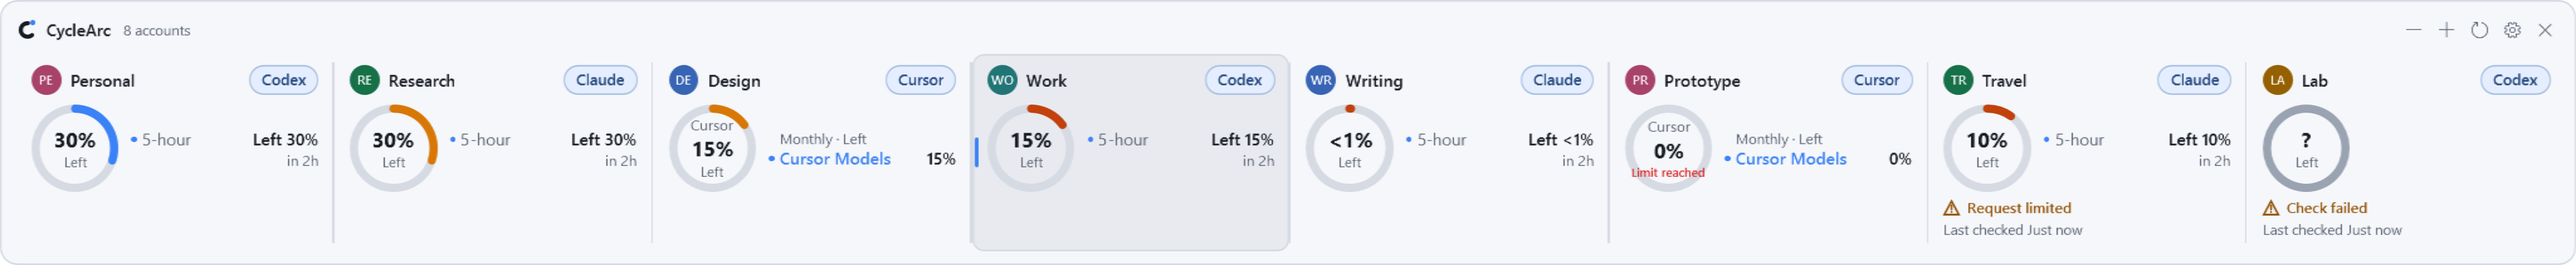
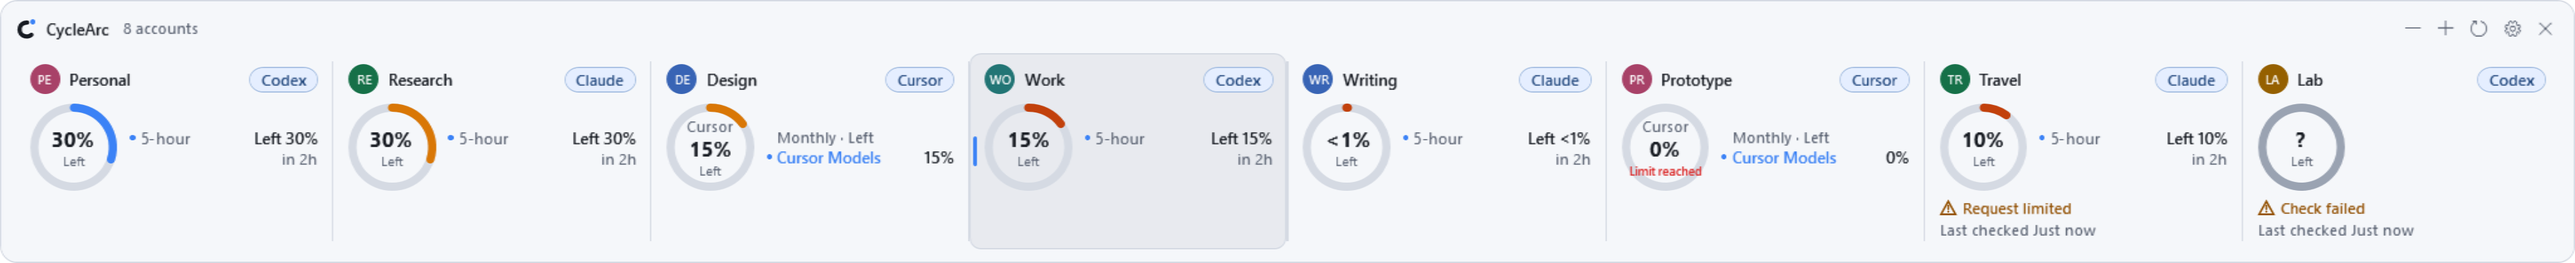
Keep widget height stable across status updates

diff --git a/tests/CycleArc.UiSmoke/WidgetStatusRowChecks.cs b/tests/CycleArc.UiSmoke/WidgetStatusRowChecks.cs
@@ -52,7 +52,7 @@ internal static class WidgetStatusRowChecks
         UiText.SetLanguage(UiLanguage.English);
         applyTheme.Invoke(null, [AppTheme.Dark]);
         Console.WriteLine(expectHealthyCollapsed
-            ? "PASS: widget healthy status collapse, failure recovery, Claude source preservation and EN/KO Dark/Light 80/100/150 layouts."
+            ? "PASS: widget reserved status space, stable refresh/failure recovery, Claude source preservation and EN/KO Dark/Light 80/100/150 layouts."
             : "PASS: 36 original production WPF status-row baseline captures in EN/KO Dark/Light 80/100/150.");
     }
 
@@ -124,13 +124,13 @@ internal static class WidgetStatusRowChecks
 
     private static void CheckTransitions(UiLanguage language, AppTheme theme, bool expectHealthyCollapsed, string? directory)
     {
-        CheckProviderTransitions(UsageProviderId.Codex, language, theme, expectHealthyCollapsed, directory);
-        CheckProviderTransitions(UsageProviderId.Cursor, language, theme, expectHealthyCollapsed, directory);
-        CheckProviderTransitions(UsageProviderId.Claude, language, theme, expectHealthyCollapsed, directory);
+        foreach (var zoom in new[] { 80, 100, 150 })
+        foreach (var provider in new[] { UsageProviderId.Codex, UsageProviderId.Cursor, UsageProviderId.Claude })
+            CheckProviderTransitions(provider, language, theme, zoom, expectHealthyCollapsed, directory);
     }
 
     private static void CheckProviderTransitions(UsageProviderId provider,
-        UiLanguage language, AppTheme theme, bool expectHealthyCollapsed, string? directory)
+        UiLanguage language, AppTheme theme, int zoom, bool expectHealthyCollapsed, string? directory)
     {
         var healthy = provider == UsageProviderId.Cursor
             ? CursorAccount(CursorSnapshot())
@@ -139,16 +139,18 @@ internal static class WidgetStatusRowChecks
         var widget = CreateWidget();
         try
         {
+            widget.SetZoom(zoom, notify: false);
             widget.BindAccounts([healthy], healthy.Profile.Id, UsagePeriodPreference.Auto,
                 WidgetFixture.Desktop, Now);
             var healthyModule = WidgetFixture.Module(widget);
             var healthyHeight = LayoutHeight(widget, healthyModule);
+            var healthyPeriodCount = healthyModule.Periods.Count;
             CheckHealthyModule(healthyModule, healthy.Snapshot, expectHealthyCollapsed,
                 provider + " transition healthy");
 
             var visibleHeight = MeasureWithStatusVisible(widget, healthyModule);
-            Check(visibleHeight - healthyHeight >= 5 - 0.01,
-                provider + " healthy footer did not remove its 5 DIP top margin from layout.");
+            Check(Math.Abs(visibleHeight - healthyHeight) < 0.01,
+                provider + " healthy footer did not reserve status space.");
 
             foreach (var (label, account) in FailureStates(provider))
             {
@@ -159,14 +161,17 @@ internal static class WidgetStatusRowChecks
                     && !string.IsNullOrWhiteSpace(module.StatusText.Text),
                     provider + " " + label + " hid its recovery/status footer.");
                 var withFooter = LayoutHeight(widget, module);
-                module.StatusArea.Visibility = Visibility.Collapsed;
+                module.StatusArea.Visibility = Visibility.Hidden;
                 var withoutFooter = LayoutHeight(widget, module);
                 module.StatusArea.Visibility = Visibility.Visible;
-                Check(withFooter - withoutFooter >= 5 - 0.01,
-                    provider + " " + label + " did not restore footer layout height.");
+                Check(Math.Abs(withFooter - withoutFooter) < 0.01,
+                    provider + " " + label + " changed height when hiding status content.");
+                if (module.Periods.Count == healthyPeriodCount)
+                    Check(Math.Abs(withFooter - healthyHeight) < 0.01,
+                        provider + " " + label + " changed height without changing quota rows.");
                 LayoutHeight(widget, module);
                 WidgetFixture.RenderWidget(widget, directory is null ? null : Path.Combine(directory,
-                    $"widget-status-{provider.ToString().ToLowerInvariant()}-{label}-{LanguageSuffix(language)}-{ThemeSuffix(theme)}.png"));
+                    $"widget-status-{provider.ToString().ToLowerInvariant()}-{label}-{LanguageSuffix(language)}-{ThemeSuffix(theme)}-{zoom}.png"));
                 CheckModuleShape(widget, module, account.Snapshot, provider + " " + label);
 
                 widget.BindAccounts([healthy], healthy.Profile.Id, UsagePeriodPreference.Auto,
@@ -174,10 +179,10 @@ internal static class WidgetStatusRowChecks
                 CheckHealthyModule(WidgetFixture.Module(widget), healthy.Snapshot, expectHealthyCollapsed,
                     provider + " recovered from " + label);
                 Check(Math.Abs(LayoutHeight(widget, WidgetFixture.Module(widget)) - healthyHeight) < 0.01,
-                    provider + " recovery did not return to the compact healthy height.");
+                    provider + " recovery changed the reserved healthy height.");
             }
 
-            // Rebinding the latest server result must collapse the row again, after every
+            // Rebinding the latest server result must hide the content again, after every
             // failure state, without losing the exact tooltip/detail metadata.
             widget.BindAccounts([healthy], healthy.Profile.Id, UsagePeriodPreference.Auto,
                 WidgetFixture.Desktop, Now);
@@ -185,7 +190,7 @@ internal static class WidgetStatusRowChecks
             CheckHealthyModule(recovered, healthy.Snapshot, expectHealthyCollapsed,
                 provider + " transition recovered");
             Check(LayoutHeight(widget, recovered) == healthyHeight,
-                provider + " recovery did not return to the compact healthy height.");
+                provider + " recovery changed the reserved healthy height.");
         }
         finally { widget.CloseWithoutActivation(); }
     }
@@ -194,6 +199,7 @@ internal static class WidgetStatusRowChecks
     {
         if (provider == UsageProviderId.Codex)
         {
+            yield return ("refreshing", CodexAccount("codex-status", "Codex account", CodexSnapshot().AsRefreshing()));
             var stale = CodexSnapshot() with { Status = CodexQuotaStatus.Stale,
                 LastSuccessfulRefresh = Now.AddMinutes(-12), TechnicalDetail = null };
             yield return ("stale", CodexAccount("codex-status", "Codex account", stale));
@@ -204,6 +210,7 @@ internal static class WidgetStatusRowChecks
         }
         if (provider == UsageProviderId.Cursor)
         {
+            yield return ("refreshing", CursorAccount(CursorSnapshot().AsRefreshing()));
             yield return ("stale", CursorAccount(CursorSnapshot(CodexQuotaStatus.Stale, "cursor-live-request-failed",
                 Now.AddHours(-3))));
             yield return ("request-failed", CursorAccount(CursorSnapshot(CodexQuotaStatus.Available,
@@ -215,6 +222,7 @@ internal static class WidgetStatusRowChecks
             yield break;
         }
 
+        yield return ("refreshing", ClaudeAccount(ClaudeSnapshot(ClaudeUsagePresentation.LiveDetail).AsRefreshing()));
         yield return ("stale", ClaudeAccount(ClaudeSnapshot("claude-live-request-failed",
             CodexQuotaStatus.Stale, Now.AddHours(-3))));
         yield return ("request-failed", ClaudeAccount(ClaudeSnapshot("claude-live-request-failed",
@@ -354,6 +362,9 @@ internal static class WidgetStatusRowChecks
         var expected = expectHealthyCollapsed ? Visibility.Collapsed : Visibility.Visible;
         Check(module.StatusText.Visibility == expected,
             label + " did not use the expected healthy server status-row visibility.");
+        if (expectHealthyCollapsed)
+            Check(module.StatusArea.Visibility == Visibility.Hidden,
+                label + " removed reserved status space.");
         Check(module.StatusText.Text.Contains(UiText.T("Updated", "업데이트됨"), StringComparison.Ordinal)
             || module.StatusText.Text.Contains(UiText.T("Updated from", "Claude 서버에서"), StringComparison.Ordinal),
             label + " lost the normal updated status text in its retained model/view.");
@@ -401,7 +412,7 @@ internal static class WidgetStatusRowChecks
         module.StatusArea.Visibility = Visibility.Visible;
         module.StatusText.Visibility = Visibility.Visible;
         var height = LayoutHeight(widget, module);
-        module.StatusArea.Visibility = Visibility.Collapsed;
+        module.StatusArea.Visibility = Visibility.Hidden;
         module.StatusText.Visibility = Visibility.Collapsed;
         LayoutHeight(widget, module);
         return height;

diff --git a/tests/CycleArc.UiSmoke/WidgetLayoutChecks.cs b/tests/CycleArc.UiSmoke/WidgetLayoutChecks.cs
@@ -599,6 +599,18 @@ internal static class WidgetLayoutChecks
             Check(Math.Abs(bothNative.Height - bothLayout) <= 4,
                 $"Two-period HWND {bothNative.Height} does not match layout {bothLayout}.");
 
+            var beforeStatus = (window.Left, window.Top, Moved: moved.Count);
+            var refreshing = both with { Snapshot = both.Snapshot.AsRefreshing() };
+            controller.Update(settings, UsageAccountOverview.Create([refreshing], refreshing.Profile.Id));
+            Pump();
+            Check(window.Modules[0].StatusText.Visibility == Visibility.Visible,
+                "Refresh status did not appear after Update().");
+            CheckWindowMatchesLayout(window, "bind-refreshing");
+            CheckAccountsFullyVisible(window, "bind-refreshing");
+            Check(Math.Abs(window.LastLayout!.Height - bothLayout) < 0.01
+                && Math.Abs(NativeDipSize(window).Height - bothNative.Height) < 0.01,
+                "Refresh status changed the arranged or HWND height.");
+
             var stale = both with { Snapshot = both.Snapshot with { Status = CodexQuotaStatus.Stale } };
             controller.Update(settings, UsageAccountOverview.Create([stale], stale.Profile.Id));
             Pump();
@@ -608,19 +620,21 @@ internal static class WidgetLayoutChecks
             CheckAccountsFullyVisible(window, "bind-status");
             var staleLayout = window.LastLayout!.Height;
             var staleNative = NativeDipSize(window);
-            Check(staleLayout > bothLayout + 4,
-                $"Status text did not grow the arranged layout ({bothLayout} → {staleLayout}).");
-            Check(staleNative.Height > bothNative.Height + 4
-                && staleNative.Height > weeklyNative.Height + 4,
-                $"Status text did not grow the HWND ({weeklyNative.Height}/{bothNative.Height} → {staleNative.Height}).");
+            Check(Math.Abs(staleLayout - bothLayout) < 0.01,
+                $"Status text changed the arranged height ({bothLayout} → {staleLayout}).");
+            Check(Math.Abs(staleNative.Height - bothNative.Height) < 0.01,
+                $"Status text changed the HWND height ({bothNative.Height} → {staleNative.Height}).");
             controller.Update(settings, UsageAccountOverview.Create([both], both.Profile.Id));
             Pump();
             Check(window.Modules[0].StatusText.Visibility != Visibility.Visible,
                 "Status text stayed after it was cleared.");
             CheckWindowMatchesLayout(window, "bind-status-cleared");
             var clearedNative = NativeDipSize(window);
-            Check(clearedNative.Height + 4 < staleNative.Height,
-                $"Clearing status text left the previous HWND height {staleNative.Height} → {clearedNative.Height}.");
+            Check(Math.Abs(clearedNative.Height - staleNative.Height) < 0.01,
+                $"Clearing status text changed HWND height {staleNative.Height} → {clearedNative.Height}.");
+            Check((window.Left, window.Top) == (beforeStatus.Left, beforeStatus.Top)
+                && moved.Count == beforeStatus.Moved && new WindowInteropHelper(window).Handle == hwnd,
+                "Status transitions moved, persisted position or recreated the widget.");
 
             controller.Update(settings, ThreeOverview());
             Pump();
@@ -1104,10 +1118,25 @@ internal static class WidgetLayoutChecks
             snapshot with { Provider = UsageProviderId.Claude, TechnicalDetail = ClaudeUsagePresentation.LiveDetail })
         { IsConnected = true };
 
+    private static CodexAccountView Cursor(string id, string label) =>
+        new(new CodexAccountProfile(id, "", label) { Provider = UsageProviderId.Cursor },
+            Both(0, 0) with
+            {
+                Provider = UsageProviderId.Cursor,
+                Windows =
+                [
+                    new("cursor-auto", 76.9, null, Now.AddDays(18), CodexWindowKind.Other),
+                    new("cursor-api", 2.9, null, Now.AddDays(18), CodexWindowKind.Other),
+                    new("cursor-sand", 12.5, null, Now.AddDays(4), CodexWindowKind.Other)
+                ]
+            }) { IsConnected = true };
+
     private static CodexAccountView[] MixedHeights() =>
     [
         Codex("mix-a", UiText.T("Main", "메인"), WeeklyOnly(41)),
-        Claude("mix-b", UiText.T("Work", "작업용"), Both(62, 18) with { Status = CodexQuotaStatus.Stale }),
+        // Cursor's three allowance rows produce a taller body. Status text now reserves
+        // the same space in every state, so warnings no longer create mixed heights.
+        Cursor("mix-b", UiText.T("Work Cursor", "작업용 Cursor")),
         Claude("mix-c", UiText.T("Personal Claude", "개인 Claude"), Both(85, 23)),
         Codex("mix-d", UiText.T("Kakao", "카카오"), Both(97, 44) with { Status = CodexQuotaStatus.Stale }),
         Claude("mix-e", UiText.T("Lab", "실험용"), Both(55, 30) with { TechnicalDetail = "claude-live-auth-required" })

diff --git a/src/CycleArc/UI/WidgetAccountModuleView.cs b/src/CycleArc/UI/WidgetAccountModuleView.cs
@@ -71,15 +71,22 @@ public sealed class WidgetAccountModuleView : Border
     public TextBlock StatusText { get; } = new()
     {
         FontSize = 10.5, TextTrimming = TextTrimming.CharacterEllipsis, TextWrapping = TextWrapping.NoWrap,
+        LineHeight = 14, LineStackingStrategy = LineStackingStrategy.BlockLineHeight,
         Visibility = Visibility.Collapsed
     };
 
     public TextBlock StatusAgeText { get; } = new()
     {
         FontSize = 10.5, TextTrimming = TextTrimming.CharacterEllipsis, TextWrapping = TextWrapping.NoWrap,
+        LineHeight = 14, LineStackingStrategy = LineStackingStrategy.BlockLineHeight,
         Margin = new Thickness(0, 2, 0, 0), Visibility = Visibility.Collapsed
     };
-    public StackPanel StatusArea { get; } = new() { Margin = new Thickness(0, 5, 0, 0), Visibility = Visibility.Collapsed };
+    // Reserve both status lines even when healthy or before the first receipt. Showing a
+    // check/retry notice must not resize the widget or move a bottom-anchored window.
+    public StackPanel StatusArea { get; } = new()
+    {
+        Height = 30, Margin = new Thickness(0, 5, 0, 0), Visibility = Visibility.Hidden
+    };
     public Path StatusWarningIcon { get; } = new()
     {
         Width = 12, Height = 12, Stretch = Stretch.Uniform, StrokeThickness = 1.35,
@@ -207,7 +214,7 @@ public sealed class WidgetAccountModuleView : Border
 
         StatusText.Text = model.StatusText;
         StatusText.Visibility = model.ShowStatusRow ? Visibility.Visible : Visibility.Collapsed;
-        StatusArea.Visibility = StatusText.Visibility;
+        StatusArea.Visibility = model.ShowStatusRow ? Visibility.Visible : Visibility.Hidden;
         var status = model.StatusPresentation;
         var warning = status?.IsWarning ?? model.IsStale;
         StatusAgeText.Text = status?.AgeText ?? "";
@@ -228,7 +235,7 @@ public sealed class WidgetAccountModuleView : Border
         System.Windows.Automation.AutomationProperties.SetName(this, AutomationText(model));
         System.Windows.Automation.AutomationProperties.SetHelpText(this, status?.DetailText ?? model.Tooltip);
 
-        // BindAccounts measures immediately, before WPF propagates a status-line size change.
+        // BindAccounts measures immediately, before WPF propagates quota-row changes.
         ((FrameworkElement)Child).InvalidateMeasure();
         InvalidateMeasure();
     }

diff --git a/tests/CycleArc.UiSmoke/CursorWidgetSummaryChecks.cs b/tests/CycleArc.UiSmoke/CursorWidgetSummaryChecks.cs
@@ -115,8 +115,10 @@ internal static class CursorWidgetSummaryChecks
             && accounts.All(account => account.Snapshot.Status is CodexQuotaStatus.Available or CodexQuotaStatus.Refreshing)
             && accounts.All(account => account.Snapshot.Windows.All(window => window.RemainingAmount is null));
         if (compactStandard)
-            Check(content.ActualHeight <= 192 + tolerance,
-                $"{name}: standard Cursor summary grew beyond 192 DIP ({content.ActualHeight:0.##}).");
+            // Keep the earlier 192-DIP summary budget plus the reserved 30-DIP status
+            // area and its 5-DIP margin, independently of status visibility.
+            Check(content.ActualHeight <= 192 + 35 + tolerance,
+                $"{name}: standard Cursor summary with reserved status grew beyond 227 DIP ({content.ActualHeight:0.##}).");
 
         for (var index = 0; index < widget.Modules.Count; index++)
         {
@@ -248,7 +250,8 @@ internal static class CursorWidgetSummaryChecks
                 $"{name}: unknown Cursor values were hidden or replaced with zero.");
         if (source.Status == CodexQuotaStatus.Available
             && source.Windows.All(window => window.RemainingAmount is null))
-            Check(module.ActualHeight <= 150, $"{name}: Cursor summary expanded beyond its compact module height.");
+            Check(module.ActualHeight <= 150 + 35,
+                $"{name}: Cursor summary expanded beyond its compact module plus reserved status height.");
         if (model.IsStale)
             Check(module.StatusText.Visibility == Visibility.Visible
                 && model.StatusPresentation is { IsWarning: true }

diff --git a/tests/CycleArc.UiSmoke/Program.cs b/tests/CycleArc.UiSmoke/Program.cs
@@ -297,11 +297,11 @@ internal static class Program
                         || (attention && string.IsNullOrEmpty(notice.Text)))
                         throw new InvalidOperationException($"Incorrect widget notice for {status}.");
                 }
-                WidgetFixture.BindSnapshot(widget, snapshot); // Recovery must remove the old failure text and its space.
+                WidgetFixture.BindSnapshot(widget, snapshot); // Recovery hides the failure text and retains its space.
                 var recoveredModule = WidgetFixture.Module(widget);
                 var recovered = recoveredModule.StatusText;
                 if (recovered.Visibility != Visibility.Collapsed
-                    || recoveredModule.StatusArea.Visibility != Visibility.Collapsed
+                    || recoveredModule.StatusArea.Visibility != Visibility.Hidden
                     || recoveredModule.Model!.StatusPresentation is not { ShowRow: false, IsWarning: false }
                     || recoveredModule.StatusArea.ToolTip is not string { Length: > 0 })
                     throw new InvalidOperationException("Widget notice remains after recovery.");

diff --git a/README.md b/README.md
@@ -15,8 +15,10 @@ and missing values stay distinct. No monetary rows are added to the account list
 Widget status uses the same warning color and vector icon for all providers. **Previous data**,
 a known failure or the needed account action appears above the original **Last checked** time;
 local Claude receipts use **Last received**. Initial waiting/checking stays gray, a retry retains
-its warning until success, and healthy server status takes no extra row. Quota rings keep their
-usage colors and amounts keep their normal text color.
+its warning until success. Each module reserves two lines for status and its timestamp;
+healthy server status hides only their content, so refresh, retry, failure and recovery notices
+do not change the widget height. Quota rings keep their usage colors and amounts keep their
+normal text color.
 
 The **Codex**, **Claude** or **Cursor** label on account cards, selected details, tray tooltips and the widget identifies the usage provider. Connect the current Claude login or sign in through the official browser flow; CycleArc can actively check the shared Claude quota through the connected Desktop login and keeps **statusLine** and Desktop history as fallback sources. See [Claude Code connection](#claude-code-connection) and [Cursor connection](#cursor-connection). Gemini is not supported.
 
@@ -49,7 +51,7 @@ The **Codex**, **Claude** or **Cursor** label on account cards, selected details
 
 **Cursor Models · Monthly**, **Other Models · Monthly** and **Grok Bot · Weekly** use the official names in both languages. Account cards, popup, tray and widget show the allowance and its cadence; the large ring names the allowance whose remaining percentage it shows. Reported on-demand budgets remain separate. Missing limits and reset times stay unknown; legacy dollar accounting is never added to model percentages. Failed checks keep the last good values and success time visibly stale. A changed Cursor login hides the previous account's quota; sign back in to the original Cursor account to reconnect that profile.
 
-The Cursor widget prioritizes **Cursor Models**, **Other Models**, then **Grok Bot**, showing at most three reported allowances under Monthly / Weekly headings. Inside the ring, **Cursor**, **Other** or **Grok Bot** identifies the allowance above what is left of it; the adjacent rows and tooltip retain the full name. The ring prefers a known value in that same order, regardless of response order. Disabled on-demand and other budget rows stay in the tooltip and detail popup, along with exact reset and update times. Healthy server data has no bottom status row; unknown values, stale data and authentication errors remain explicit.
+The Cursor widget prioritizes **Cursor Models**, **Other Models**, then **Grok Bot**, showing at most three reported allowances under Monthly / Weekly headings. Inside the ring, **Cursor**, **Other** or **Grok Bot** identifies the allowance above what is left of it; the adjacent rows and tooltip retain the full name. The ring prefers a known value in that same order, regardless of response order. Disabled on-demand and other budget rows stay in the tooltip and detail popup, along with exact reset and update times. Healthy server data hides the bottom status content while preserving its space; unknown values, stale data and authentication errors remain explicit.
 
 If only Grok Bot is unavailable, the monthly allowances remain updated and continue refreshing. Grok Bot's retry delay applies only to Grok Bot; its unverified value is omitted, with an explanation in the popup. Account mismatch still respects the configured automatic interval, including after reopening the popup or restarting CycleArc.
 
@@ -283,7 +285,7 @@ The **Usage number** tray style shows bold digits as large as the native icon sl
 
 All three providers use whole-percent text in the widget and up to two decimal places in the detail popup, including its ring, account summaries and quota rows. Widget rounding uses the original value: **76.91% → 77%**, while **76.499% → 76%**. For a complementary used/remaining pair, the remaining display complements the rounded usage: **76.5% / 23.5% → 77% / 23%**. Nonzero values below 1% show **<1%**, and values above 99% but below 100% show **>99%**; exact 0% and 100% stay exact. Detail values omit trailing zeros (**97.1%**, **77%**) and preserve tiny values as **<0.01%** or **>99.99%**. Unknown or invalid percentages stay **?**. Monetary amounts, unlimited/off labels, precise widget tooltips, original values and warning colors keep their existing meaning; popup and widget ring arcs fill with the remaining share. Tray digits, tooltips and rings keep their existing policy, including Cursor's **76.91% → 77** tray digits.
 
-The widget, and each account row in the popup list, collapses the **Updated** status for successful Claude and Cursor server samples. Popup account rows show each reported limit as a bar filled with what is left, with the value at popup precision and the full used/left pair in the row tooltip. Exact check times and source information remain in the account tooltip and detail popup. Claude Desktop history and Code statusLine samples keep **Received**; stale data, failed checks, sign-in/account changes and initial waiting states keep their status row. A new failure restores the row, and a subsequent successful server check collapses it again without changing the quota rows, ring alignment or widget width.
+The widget hides the **Updated** status for successful Claude and Cursor server samples while reserving two lines for status and its timestamp. Each account row in the popup list still collapses that status. Popup account rows show each reported limit as a bar filled with what is left, with the value at popup precision and the full used/left pair in the row tooltip. Exact check times and source information remain in the account tooltip and detail popup. Claude Desktop history and Code statusLine samples keep **Received**; stale data, failed checks, sign-in/account changes and initial waiting states keep their status visible. A new failure shows the widget notice in the reserved space, and a subsequent successful server check hides it again without changing the quota rows, ring alignment, widget width or height. Changes to the account list or reported quota windows can still change the layout.
 
 <details>
 <summary><strong>Settings and compact widget</strong></summary>

diff --git a/docs/images/README.md b/docs/images/README.md
@@ -49,7 +49,7 @@ Historical before/after comparisons were not regenerated.
 | `claude-overview-{en,ko}-{dark,light}.png` | Research selected with a Desktop history fallback: 91% five-hour / 47% weekly, unknown resets, Received and original observation time |
 | `claude-connection-{en,ko}-{dark,light}.png` | Official CLI connection choices, existing Desktop login for server checks and manual usage-page access; advanced settings collapsed |
 | `cursor-popup-{en,ko}-{dark,light}.png` | Cursor Models and Other Models monthly allowances, Grok Bot weekly allowance, named usage ring, each reset named and counted down under its value, disabled on-demand and the shared Last checked row |
-| `cursor-widget-{en,ko}-{dark,light}.png` | Cursor Models / Other Models monthly and Grok Bot weekly summary with integer used/remaining percentages and a named ring; healthy server status has no footer, with exact values/times and omitted budgets in tooltips/detail |
+| `cursor-widget-{en,ko}-{dark,light}.png` | Cursor Models / Other Models monthly and Grok Bot weekly summary with integer used/remaining percentages and a named ring; healthy server status hides its content within reserved footer space, with exact values/times and omitted budgets in tooltips/detail |
 | `widget-status-{before,after}-{en,ko}-{dark,light}.png` | Actual WPF Codex / Claude / Cursor accounts before and after collapsing healthy server status rows, at unchanged 100% width and typography |
 | `cursor-widget-summary-{before,after}-{en,ko}-{dark,light}.png` | Fixed synthetic Codex / Cursor / Claude accounts in the actual WPF widget, before and after the Cursor summary change at 100% zoom |
 | `cursor-widget-compact-{before,after}-{en,ko}-{dark,light}.png` | The follow-up comparison from `f0a9964`: the same synthetic mixed accounts, with the repeated ring target moved inside the ring at unchanged width/font sizes |
@@ -199,7 +199,15 @@ Checked-in examples: [Codex](usage-percent-codex-en-light.png),
 [widget boundary](usage-percent-cursor-ko-light-boundary.png), and
 [tiny detail boundary](usage-percent-codex-en-dark-tiny.png).
 
-The healthy-status follow-up uses `WidgetStatusRowChecks` and a fixed 2035-06-07 timestamp.
+The 2026-10-03 widget reserves a 30-DIP, two-line status area plus its existing 5-DIP
+top margin. Healthy server status hides the content while keeping that space, so
+checking, retry, failure and recovery text do not resize the widget. EN/KO,
+Dark/Light and 80/100/150% transition checks use `--widget-status <directory>`.
+The native `--widget-layout <directory>` checks also assert unchanged HWND height,
+position and saved-position events through checking, stale and healthy states.
+Current widget previews use this layout; historical before/after evidence stays intact.
+
+The historical healthy-status follow-up uses `WidgetStatusRowChecks` and a fixed 2035-06-07 timestamp.
 The before images render the production model/view from `5875b52`; after images use the
 same accounts, values and times with only healthy server footers collapsed. All 36
 standalone/mixed image pairs retain their widths and reduce their heights across EN/KO,

diff --git a/docs/VALIDATION.md b/docs/VALIDATION.md
@@ -2,6 +2,27 @@
 
 ## Current work — Codex, Claude and Cursor
 
+- Stable widget height across status changes (2026-10-03):
+  - Each account module reserves 30 DIP for two status lines plus the existing 5-DIP
+    top margin. Healthy status hides only the content. Refresh, retry, ordinary failure
+    and successful recovery keep the same height; account-count or quota-item changes
+    can still change the layout. This supersedes the footer-height behavior documented
+    in the 2026-09-21 healthy-status entry below.
+  - Release build with .NET SDK 8.0.424 passed. `--widget-status
+    artifacts/widget-status-stable` passed refresh/failure/recovery checks for all three
+    providers in EN/KO, Dark/Light and 80/100/150% zoom. `--widget-layout
+    artifacts/widget-height-layout` passed 151 checks, including unchanged actual HWND
+    height, position and `Moved` events across status changes.
+  - `--cursor-widget-summary-previews artifacts/widget-status-stable/cursor-summary`
+    passed 76 checks. The mixed-height fixture now uses a Cursor account with three
+    allowances instead of relying on a warning footer to make it taller. Cursor compact
+    height bounds include the reserved 35-DIP status space.
+  - The full unit suite passed 1,998/1,998. The final `dev-run.ps1 -NoLaunch -Fast` gate
+    passed in 3m17s: all production WPF checks, test-flavour build, single-file publish,
+    Native AOT setup packaging and package verification. It reused the passing unit result;
+    no unit code changed afterward. The installed application and running instance were
+    not changed.
+
 - Desktop shortcut merge review (2026-10-03): the stable-launcher rewrite and its unit
   tests were included in the passing 1,998-test local gate above. Fresh-install shortcut
   UI verification now uses a separate disposable CI job instead of the already-installed
